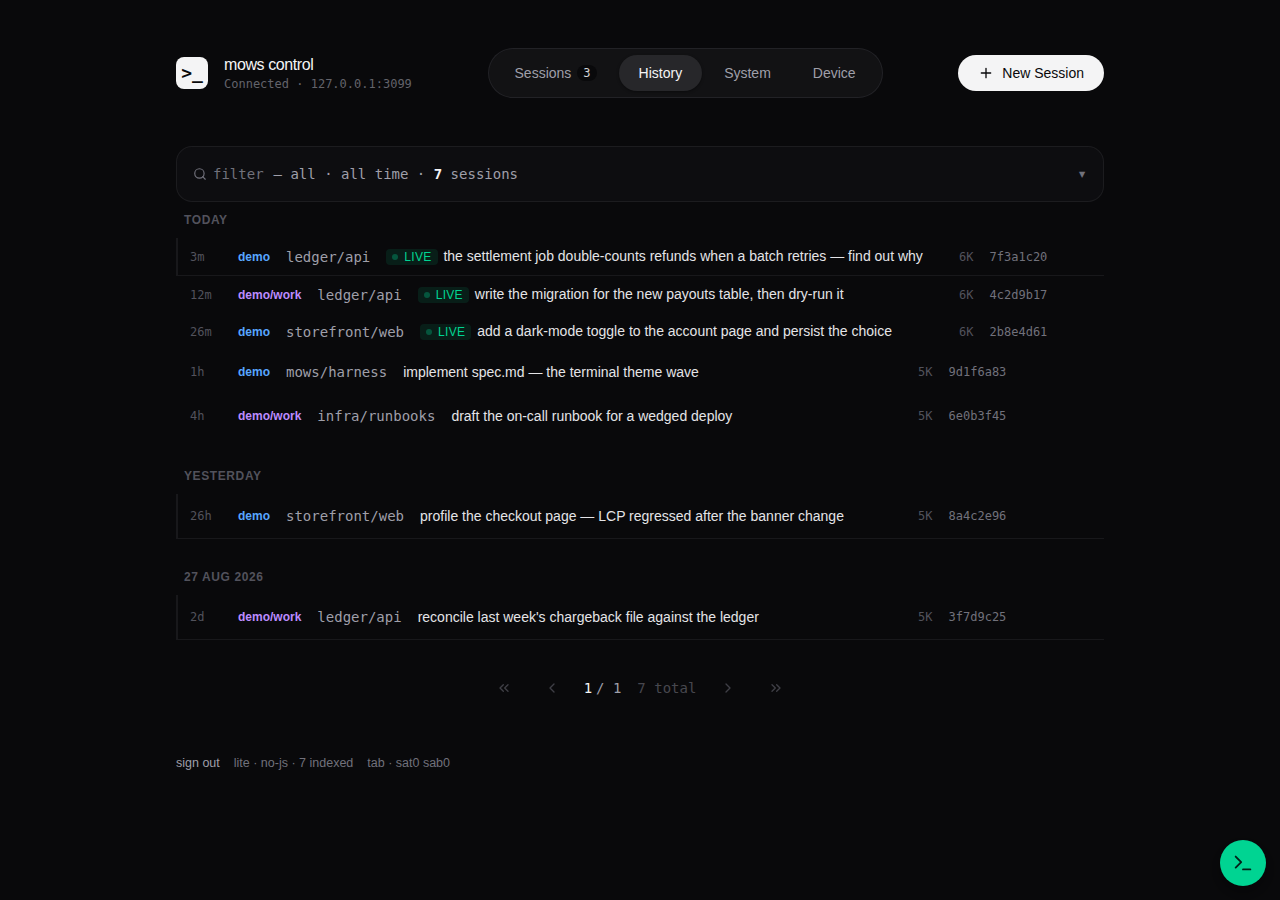
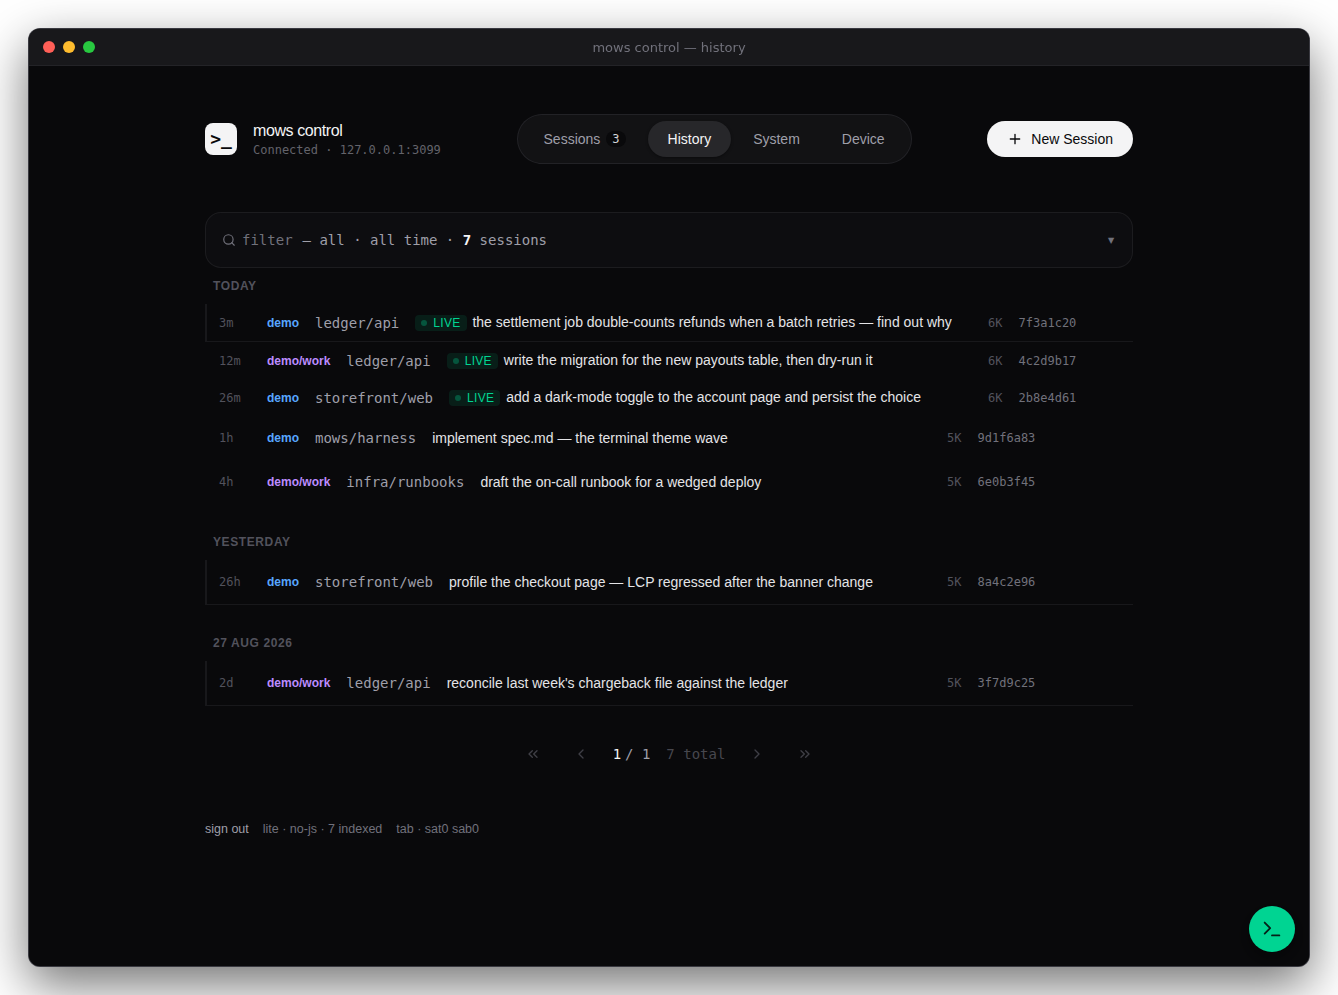
README assets: macOS-style window chrome on every capture
docs/assets/mac-frame.html draws the frame in pure CSS — traffic lights,
centered title bar, rounded corners, alpha drop shadow (omitBackground
screenshot, so it sits cleanly on GitHub light and dark themes); a
?mode=phone variant gives the two phone shots a bezel-style rounded frame
instead. All six README captures re-rendered through it; stage-demo.sh's
header documents the two-step pipeline (stage → frame).

Claude-Session: https://claude.ai/code/session_016VJ5MDnSe8UTXBP2QGTd4v

diff --git a/docs/assets/mac-frame.html b/docs/assets/mac-frame.html
@@ -1,0 +1,42 @@
+<!doctype html>
+<!-- mac-frame.html — wraps a screenshot in macOS-style window chrome for the README.
+     Open as file://…/mac-frame.html?img=<file>.png&title=<bar text>, then take an
+     element screenshot of #wrap with omitBackground:true (playwright) so the drop
+     shadow keeps its alpha and the frame sits cleanly on GitHub's light AND dark
+     themes. Used after stage-demo.sh has produced the raw captures — the chrome is
+     pure CSS, so re-framing after a re-shoot is one headless pass, no image tools. -->
+<meta charset="utf-8">
+<style>
+  html, body { margin: 0; background: transparent; }
+  #wrap { display: inline-block; padding: 28px; }           /* room for the shadow */
+  #win  { border-radius: 12px; overflow: hidden; background: #09090b;
+          border: 1px solid rgba(63,63,70,.9);
+          box-shadow: 0 18px 50px rgba(0,0,0,.55); }
+  #bar  { height: 36px; display: flex; align-items: center; padding: 0 14px;
+          background: #18181b; border-bottom: 1px solid rgba(39,39,42,.8);
+          position: relative; }
+  .dot  { width: 12px; height: 12px; border-radius: 50%; margin-right: 8px; }
+  #title{ position: absolute; left: 0; right: 0; text-align: center; color: #71717b;
+          font: 500 13px -apple-system, system-ui, sans-serif; pointer-events: none; }
+  img   { display: block; max-width: none; }
+</style>
+<div id="wrap"><div id="win">
+  <div id="bar">
+    <span class="dot" style="background:#ff5f57"></span>
+    <span class="dot" style="background:#febc2e"></span>
+    <span class="dot" style="background:#28c840"></span>
+    <span id="title"></span>
+  </div>
+  <img id="shot" alt="">
+</div></div>
+<script>
+  const q = new URLSearchParams(location.search);
+  document.getElementById('shot').src = q.get('img') || '';
+  document.getElementById('title').textContent = q.get('title') || 'mows control';
+  if (q.get('mode') === 'phone') {   // phone captures: bezel-ish rounded frame, no title bar
+    document.getElementById('bar').remove();
+    const w = document.getElementById('win');
+    w.style.borderRadius = '32px';
+    w.style.border = '6px solid #27272a';
+  }
+</script>
